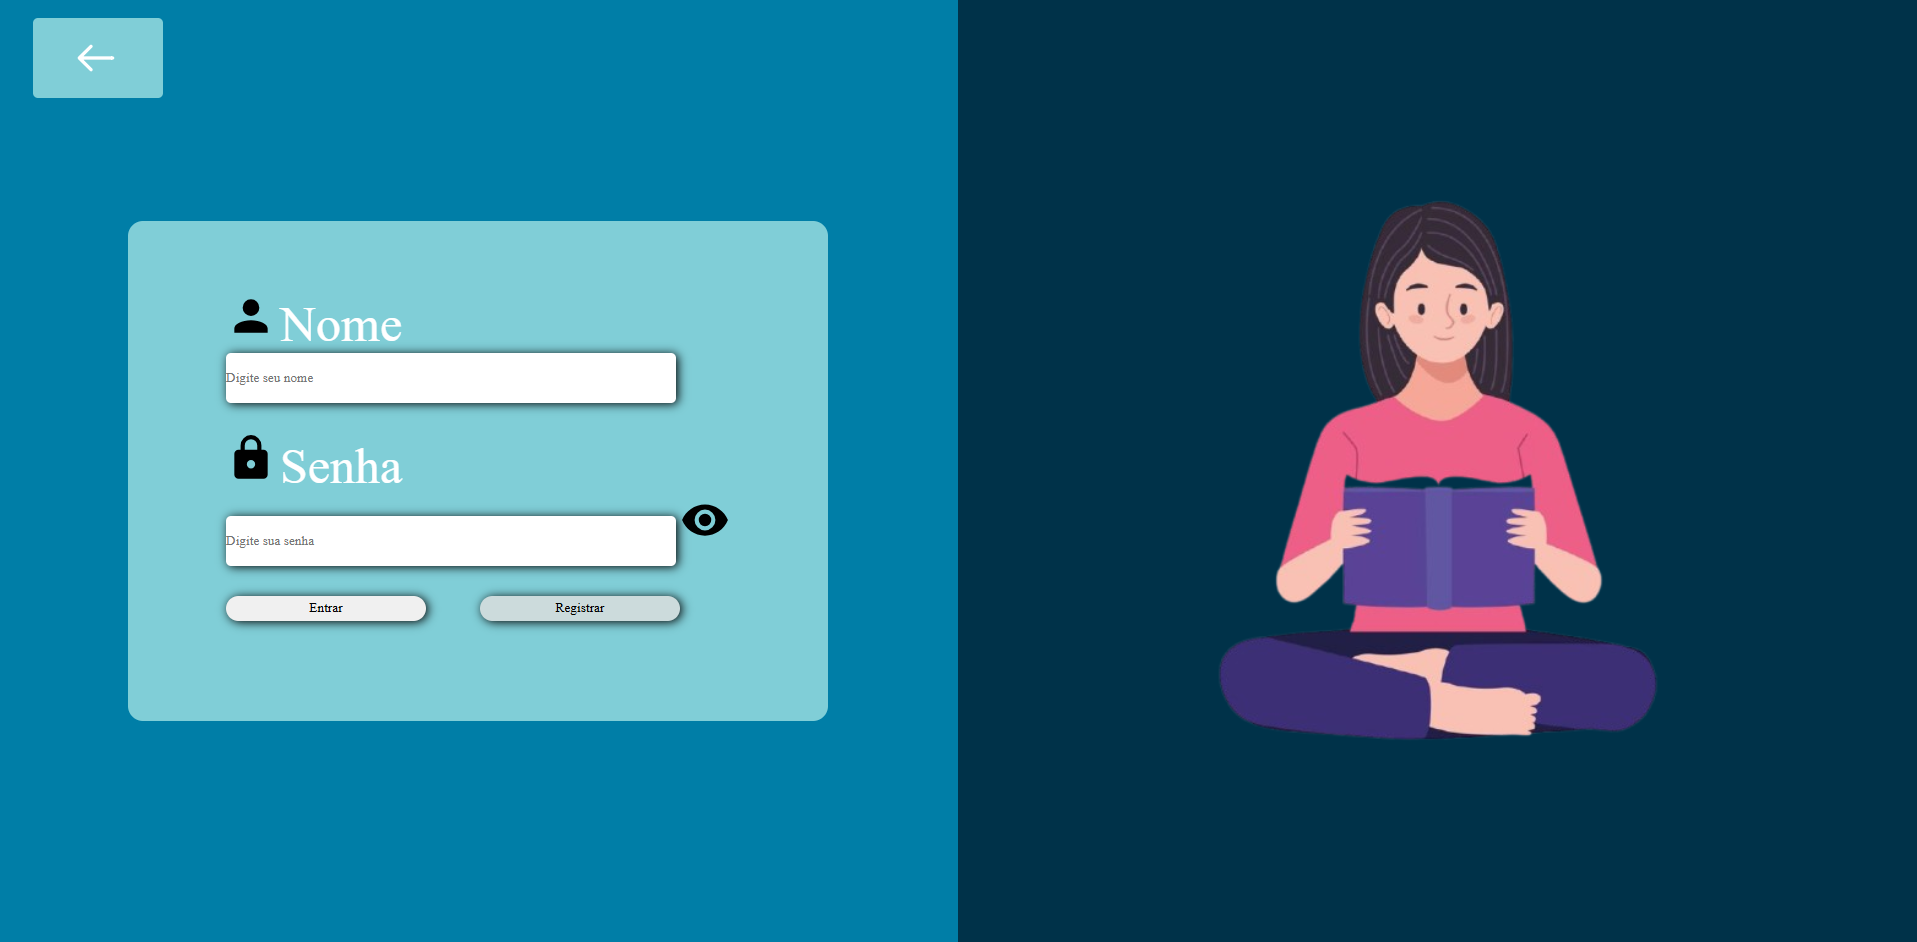
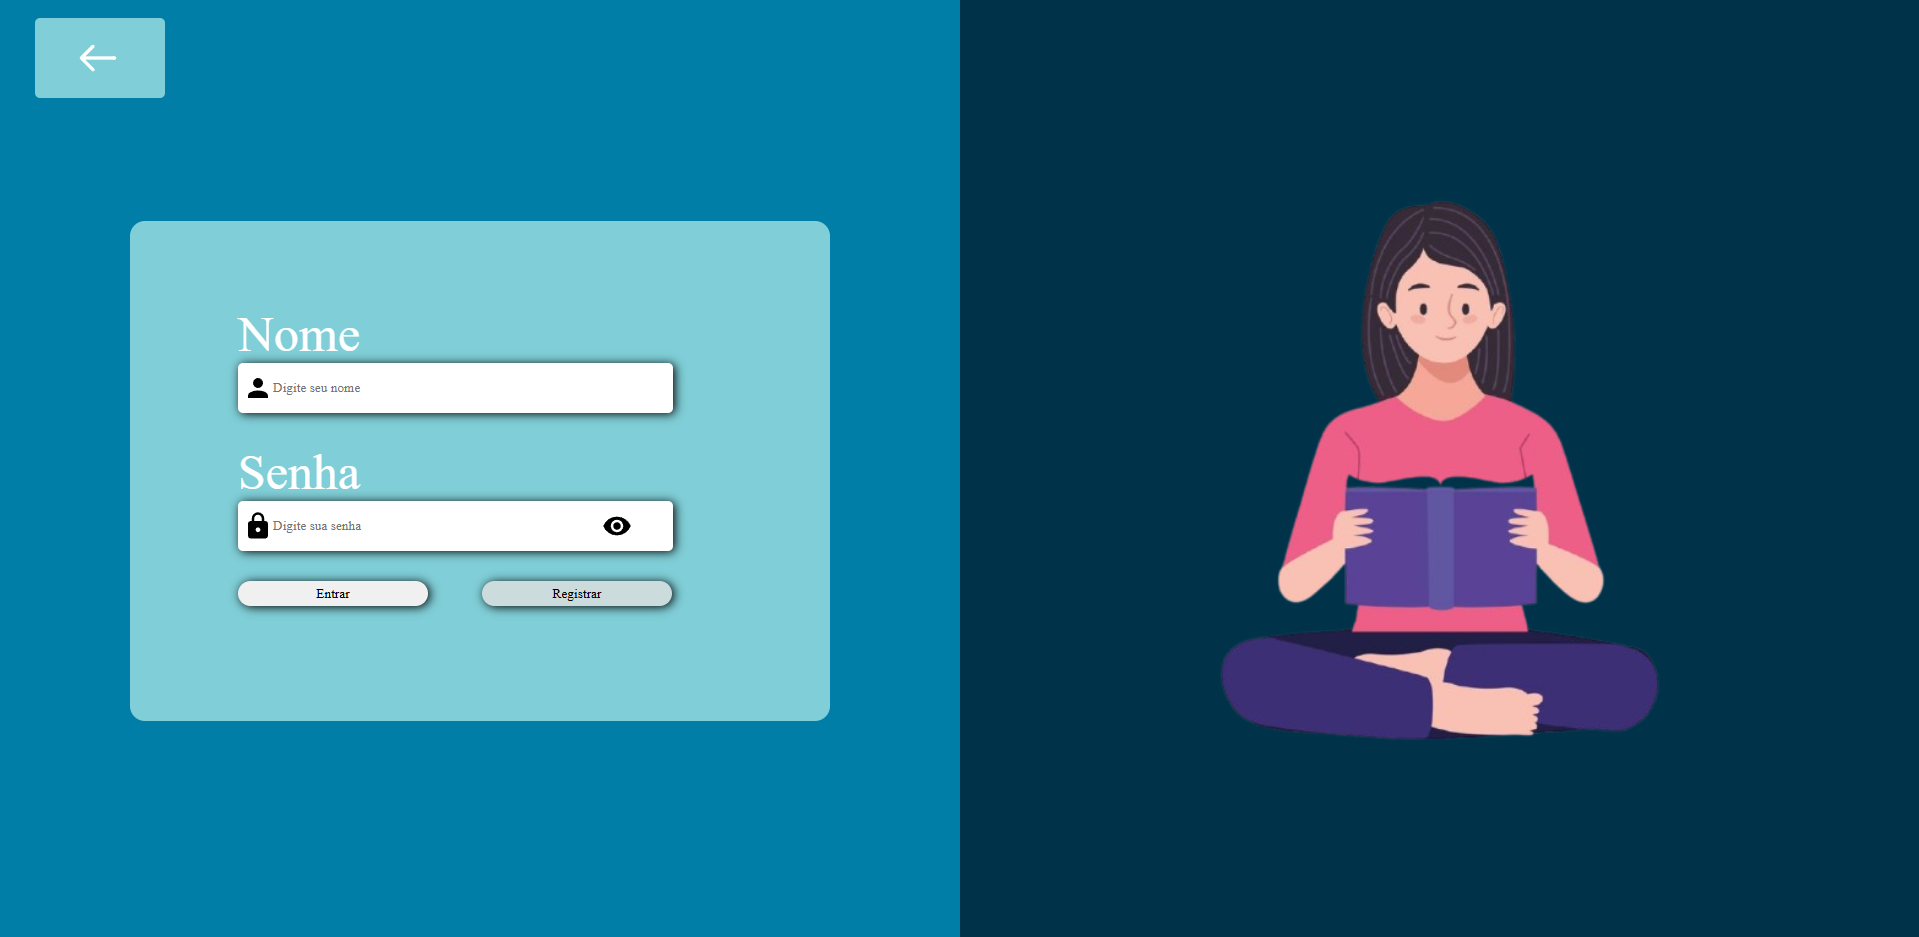
modificado login e atualizado imagem em Projetos SENAI

diff --git a/HTML/Projetos_SENAI/Login/login.css b/HTML/Projetos_SENAI/Login/login.css
@@ -8,6 +8,11 @@ iconify-icon {
     user-select: none;
 }
 
+a {
+    text-decoration: none;
+    color: blue;
+}
+
 body {
     background-color: #003249;
     display: grid;
@@ -40,7 +45,7 @@ body {
     width: 700px;
 }
 
-.input-form, .botoes-form {
+.input-form {
     margin: auto auto 30px auto;
 }
 
@@ -144,5 +149,6 @@ button:hover, #botao-voltar:hover {
 .input-login > #icone-olho {
     position: absolute;
     top: 10px;
-    right: 90px;
+    right: 70px;
 }
+
